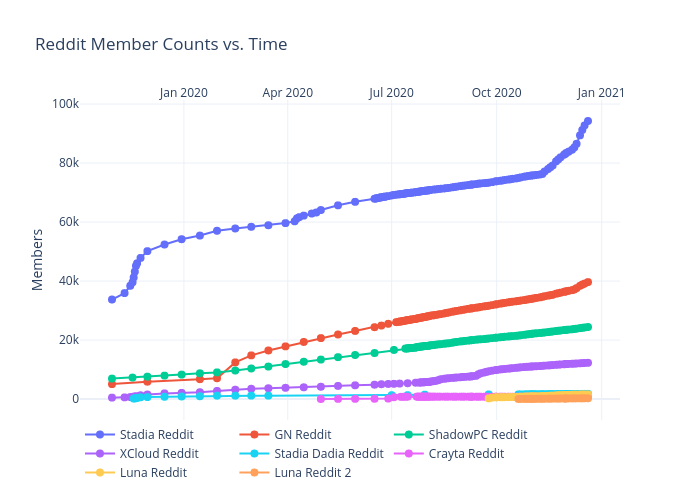
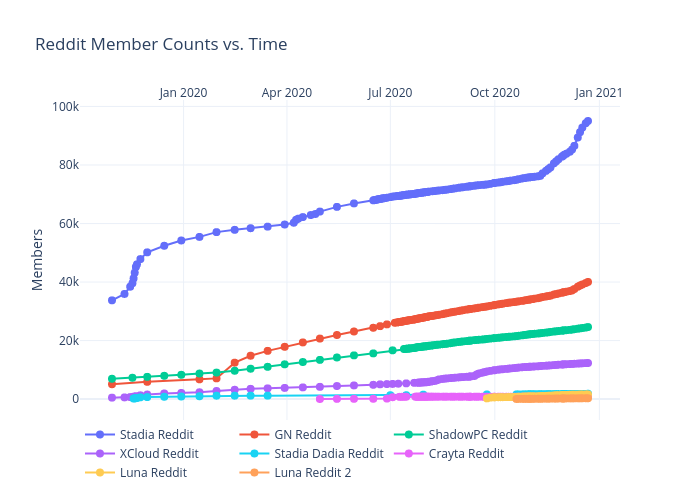
Add files via upload

diff --git a/reddit/figure.js b/reddit/figure.js
@@ -288,7 +288,8 @@ var figure = {
                 "89393",
                 "91230",
                 "92769",
-                "94268"
+                "94268",
+                "95032"
             ],
             "marker": {
                 "size": 8
@@ -585,7 +586,8 @@ var figure = {
                 "38404",
                 "38811",
                 "39162",
-                "39659"
+                "39659",
+                "40038"
             ],
             "marker": {
                 "size": 8
@@ -882,7 +884,8 @@ var figure = {
                 "24055",
                 "24164",
                 "24284",
-                "24429"
+                "24429",
+                "24619"
             ],
             "marker": {
                 "size": 8
@@ -1179,7 +1182,8 @@ var figure = {
                 "12138",
                 "12184",
                 "12240",
-                "12296"
+                "12296",
+                "12329"
             ],
             "marker": {
                 "size": 8
@@ -1476,7 +1480,8 @@ var figure = {
                 "1773",
                 "1778",
                 "1779",
-                "1787"
+                "1787",
+                "1843"
             ],
             "marker": {
                 "size": 8
@@ -1773,7 +1778,8 @@ var figure = {
                 "799",
                 "802",
                 "803",
-                "803"
+                "803",
+                "807"
             ],
             "marker": {
                 "size": 8
@@ -2070,7 +2076,8 @@ var figure = {
                 "1533",
                 "1555",
                 "1574",
-                "1598"
+                "1598",
+                "1603"
             ],
             "marker": {
                 "size": 8
@@ -2367,7 +2374,8 @@ var figure = {
                 "255",
                 "265",
                 "278",
-                "283"
+                "283",
+                "284"
             ],
             "marker": {
                 "size": 8
@@ -2385,8 +2393,8 @@ var figure = {
             "side": "top",
             "type": "date",
             "range": [
-                "2019-10-03 20:49:05.9992",
-                "2021-01-15 03:10:54.0008"
+                "2019-10-03 17:48:36.9633",
+                "2021-01-17 06:11:23.0367"
             ],
             "title": {
                 "text": ""
@@ -2396,8 +2404,8 @@ var figure = {
         "yaxis": {
             "type": "linear",
             "range": [
-                -6424.616740602383,
-                100725.61674060239
+                -6476.971165071213,
+                101541.97116507121
             ],
             "title": {
                 "text": "Members"
